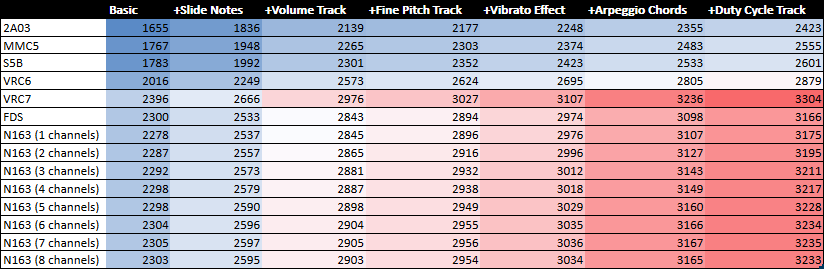
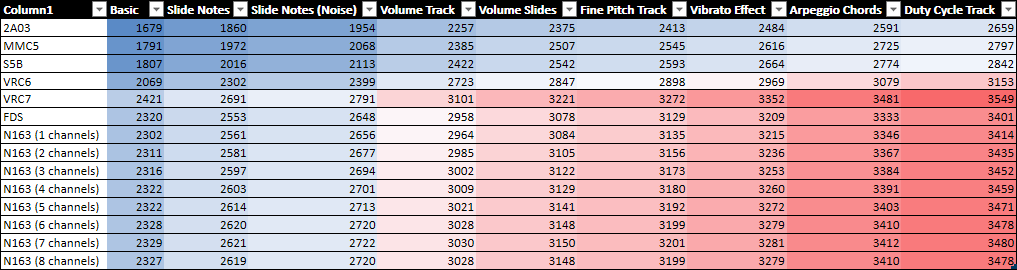
Update doc.

diff --git a/SoundEngine/Tools/FeatureMatrix.html b/SoundEngine/Tools/FeatureMatrix.html
@@ -1,34 +1,34 @@
 <html><body>
 <h1>CODE</h1>
-<table><th><td>Basic</td><td>Slide Notes</td><td>Volume Track</td><td>Fine Pitch Track</td><td>Vibrato Effect</td><td>Arpeggio Chords</td><td>Duty Cycle Track</td></th>
-<tr><td>2A03</td><td>1655</td><td>1836</td><td>2139</td><td>2177</td><td>2248</td><td>2355</td><td>2423</td></tr>
-<tr><td>MMC5</td><td>1767</td><td>1948</td><td>2265</td><td>2303</td><td>2374</td><td>2483</td><td>2555</td></tr>
-<tr><td>S5B</td><td>1783</td><td>1992</td><td>2301</td><td>2352</td><td>2423</td><td>2533</td><td>2601</td></tr>
-<tr><td>VRC6</td><td>2016</td><td>2249</td><td>2573</td><td>2624</td><td>2695</td><td>2805</td><td>2879</td></tr>
-<tr><td>VRC7</td><td>2396</td><td>2666</td><td>2976</td><td>3027</td><td>3107</td><td>3236</td><td>3304</td></tr>
-<tr><td>FDS</td><td>2300</td><td>2533</td><td>2843</td><td>2894</td><td>2974</td><td>3098</td><td>3166</td></tr>
-<tr><td>N163 (1 channels)</td><td>2278</td><td>2537</td><td>2845</td><td>2896</td><td>2976</td><td>3107</td><td>3175</td></tr>
-<tr><td>N163 (2 channels)</td><td>2287</td><td>2557</td><td>2865</td><td>2916</td><td>2996</td><td>3127</td><td>3195</td></tr>
-<tr><td>N163 (3 channels)</td><td>2292</td><td>2573</td><td>2881</td><td>2932</td><td>3012</td><td>3143</td><td>3211</td></tr>
-<tr><td>N163 (4 channels)</td><td>2298</td><td>2579</td><td>2887</td><td>2938</td><td>3018</td><td>3149</td><td>3217</td></tr>
-<tr><td>N163 (5 channels)</td><td>2298</td><td>2590</td><td>2898</td><td>2949</td><td>3029</td><td>3160</td><td>3228</td></tr>
-<tr><td>N163 (6 channels)</td><td>2304</td><td>2596</td><td>2904</td><td>2955</td><td>3035</td><td>3166</td><td>3234</td></tr>
-<tr><td>N163 (7 channels)</td><td>2305</td><td>2597</td><td>2905</td><td>2956</td><td>3036</td><td>3167</td><td>3235</td></tr>
-<tr><td>N163 (8 channels)</td><td>2303</td><td>2595</td><td>2903</td><td>2954</td><td>3034</td><td>3165</td><td>3233</td></tr>
+<table><th><td>Basic</td><td>Slide Notes</td><td>Slide Notes (Noise)</td><td>Volume Track</td><td>Volume Slides</td><td>Fine Pitch Track</td><td>Vibrato Effect</td><td>Arpeggio Chords</td><td>Duty Cycle Track</td></th>
+<tr><td>2A03</td><td>1679</td><td>1860</td><td>1954</td><td>2257</td><td>2375</td><td>2413</td><td>2484</td><td>2591</td><td>2659</td></tr>
+<tr><td>MMC5</td><td>1791</td><td>1972</td><td>2068</td><td>2385</td><td>2507</td><td>2545</td><td>2616</td><td>2725</td><td>2797</td></tr>
+<tr><td>S5B</td><td>1807</td><td>2016</td><td>2113</td><td>2422</td><td>2542</td><td>2593</td><td>2664</td><td>2774</td><td>2842</td></tr>
+<tr><td>VRC6</td><td>2069</td><td>2302</td><td>2399</td><td>2723</td><td>2847</td><td>2898</td><td>2969</td><td>3079</td><td>3153</td></tr>
+<tr><td>VRC7</td><td>2421</td><td>2691</td><td>2791</td><td>3101</td><td>3221</td><td>3272</td><td>3352</td><td>3481</td><td>3549</td></tr>
+<tr><td>FDS</td><td>2320</td><td>2553</td><td>2648</td><td>2958</td><td>3078</td><td>3129</td><td>3209</td><td>3333</td><td>3401</td></tr>
+<tr><td>N163 (1 channels)</td><td>2302</td><td>2561</td><td>2656</td><td>2964</td><td>3084</td><td>3135</td><td>3215</td><td>3346</td><td>3414</td></tr>
+<tr><td>N163 (2 channels)</td><td>2311</td><td>2581</td><td>2677</td><td>2985</td><td>3105</td><td>3156</td><td>3236</td><td>3367</td><td>3435</td></tr>
+<tr><td>N163 (3 channels)</td><td>2316</td><td>2597</td><td>2694</td><td>3002</td><td>3122</td><td>3173</td><td>3253</td><td>3384</td><td>3452</td></tr>
+<tr><td>N163 (4 channels)</td><td>2322</td><td>2603</td><td>2701</td><td>3009</td><td>3129</td><td>3180</td><td>3260</td><td>3391</td><td>3459</td></tr>
+<tr><td>N163 (5 channels)</td><td>2322</td><td>2614</td><td>2713</td><td>3021</td><td>3141</td><td>3192</td><td>3272</td><td>3403</td><td>3471</td></tr>
+<tr><td>N163 (6 channels)</td><td>2328</td><td>2620</td><td>2720</td><td>3028</td><td>3148</td><td>3199</td><td>3279</td><td>3410</td><td>3478</td></tr>
+<tr><td>N163 (7 channels)</td><td>2329</td><td>2621</td><td>2722</td><td>3030</td><td>3150</td><td>3201</td><td>3281</td><td>3412</td><td>3480</td></tr>
+<tr><td>N163 (8 channels)</td><td>2327</td><td>2619</td><td>2720</td><td>3028</td><td>3148</td><td>3199</td><td>3279</td><td>3410</td><td>3478</td></tr>
 </table><h1>RAM</h1><table>
-<table><th><td>Basic</td><td>Slide Notes</td><td>Volume Track</td><td>Fine Pitch Track</td><td>Vibrato Effect</td><td>Arpeggio Chords</td><td>Duty Cycle Track</td></th>
-<tr><td>2A03</td><td>129</td><td>138</td><td>143</td><td>146</td><td>151</td><td>151</td><td>154</td></tr>
-<tr><td>MMC5</td><td>189</td><td>204</td><td>211</td><td>216</td><td>223</td><td>223</td><td>228</td></tr>
-<tr><td>S5B</td><td>201</td><td>219</td><td>227</td><td>233</td><td>241</td><td>241</td><td>244</td></tr>
-<tr><td>VRC6</td><td>216</td><td>234</td><td>242</td><td>248</td><td>256</td><td>256</td><td>262</td></tr>
-<tr><td>VRC7</td><td>300</td><td>327</td><td>338</td><td>347</td><td>358</td><td>358</td><td>361</td></tr>
-<tr><td>FDS</td><td>161</td><td>173</td><td>179</td><td>183</td><td>189</td><td>189</td><td>192</td></tr>
-<tr><td>N163 (1 channels)</td><td>157</td><td>169</td><td>175</td><td>179</td><td>185</td><td>185</td><td>188</td></tr>
-<tr><td>N163 (2 channels)</td><td>183</td><td>198</td><td>205</td><td>210</td><td>217</td><td>217</td><td>220</td></tr>
-<tr><td>N163 (3 channels)</td><td>209</td><td>227</td><td>235</td><td>241</td><td>249</td><td>249</td><td>252</td></tr>
-<tr><td>N163 (4 channels)</td><td>235</td><td>256</td><td>265</td><td>272</td><td>281</td><td>281</td><td>284</td></tr>
-<tr><td>N163 (5 channels)</td><td>261</td><td>285</td><td>295</td><td>303</td><td>313</td><td>313</td><td>316</td></tr>
-<tr><td>N163 (6 channels)</td><td>287</td><td>314</td><td>325</td><td>334</td><td>345</td><td>345</td><td>348</td></tr>
-<tr><td>N163 (7 channels)</td><td>313</td><td>343</td><td>355</td><td>365</td><td>377</td><td>377</td><td>380</td></tr>
-<tr><td>N163 (8 channels)</td><td>339</td><td>372</td><td>385</td><td>396</td><td>409</td><td>409</td><td>412</td></tr>
+<table><th><td>Basic</td><td>Slide Notes</td><td>Slide Notes (Noise)</td><td>Volume Track</td><td>Volume Slides</td><td>Fine Pitch Track</td><td>Vibrato Effect</td><td>Arpeggio Chords</td><td>Duty Cycle Track</td></th>
+<tr><td>2A03</td><td>129</td><td>138</td><td>141</td><td>146</td><td>154</td><td>157</td><td>162</td><td>162</td><td>165</td></tr>
+<tr><td>MMC5</td><td>189</td><td>204</td><td>207</td><td>214</td><td>228</td><td>233</td><td>240</td><td>240</td><td>245</td></tr>
+<tr><td>S5B</td><td>201</td><td>219</td><td>222</td><td>230</td><td>246</td><td>252</td><td>260</td><td>260</td><td>263</td></tr>
+<tr><td>VRC6</td><td>217</td><td>235</td><td>238</td><td>246</td><td>262</td><td>268</td><td>276</td><td>276</td><td>282</td></tr>
+<tr><td>VRC7</td><td>300</td><td>327</td><td>330</td><td>341</td><td>363</td><td>372</td><td>383</td><td>383</td><td>386</td></tr>
+<tr><td>FDS</td><td>161</td><td>173</td><td>176</td><td>182</td><td>194</td><td>198</td><td>204</td><td>204</td><td>207</td></tr>
+<tr><td>N163 (1 channels)</td><td>157</td><td>169</td><td>172</td><td>178</td><td>190</td><td>194</td><td>200</td><td>200</td><td>203</td></tr>
+<tr><td>N163 (2 channels)</td><td>183</td><td>198</td><td>201</td><td>208</td><td>222</td><td>227</td><td>234</td><td>234</td><td>237</td></tr>
+<tr><td>N163 (3 channels)</td><td>209</td><td>227</td><td>230</td><td>238</td><td>254</td><td>260</td><td>268</td><td>268</td><td>271</td></tr>
+<tr><td>N163 (4 channels)</td><td>235</td><td>256</td><td>259</td><td>268</td><td>286</td><td>293</td><td>302</td><td>302</td><td>305</td></tr>
+<tr><td>N163 (5 channels)</td><td>261</td><td>285</td><td>288</td><td>298</td><td>318</td><td>326</td><td>336</td><td>336</td><td>339</td></tr>
+<tr><td>N163 (6 channels)</td><td>287</td><td>314</td><td>317</td><td>328</td><td>350</td><td>359</td><td>370</td><td>370</td><td>373</td></tr>
+<tr><td>N163 (7 channels)</td><td>313</td><td>343</td><td>346</td><td>358</td><td>382</td><td>392</td><td>404</td><td>404</td><td>407</td></tr>
+<tr><td>N163 (8 channels)</td><td>339</td><td>372</td><td>375</td><td>388</td><td>414</td><td>425</td><td>438</td><td>438</td><td>441</td></tr>
 </body></html>

diff --git a/SoundEngine/Tools/BuildFeatureMatrix.cs b/SoundEngine/Tools/BuildFeatureMatrix.cs
@@ -98,7 +98,9 @@ namespace PrintCodeSize
                 "",
                 //"FAMISTUDIO_USE_FAMITRACKER_TEMPO=1",
                 "FAMISTUDIO_USE_SLIDE_NOTES=1",
+                "FAMISTUDIO_USE_NOISE_SLIDE_NOTES=1",
                 "FAMISTUDIO_USE_VOLUME_TRACK=1",
+                "FAMISTUDIO_USE_VOLUME_SLIDES=1",
                 "FAMISTUDIO_USE_PITCH_TRACK=1",
                 "FAMISTUDIO_USE_VIBRATO=1",
                 "FAMISTUDIO_USE_ARPEGGIO=1",
@@ -109,7 +111,9 @@ namespace PrintCodeSize
             {
                 "Basic",
                 "Slide Notes",
+                "Slide Notes (Noise)",
                 "Volume Track",
+                "Volume Slides",
                 "Fine Pitch Track",
                 "Vibrato Effect",
                 "Arpeggio Chords",

diff --git a/Docs/docs/soundengine.md b/Docs/docs/soundengine.md
@@ -39,8 +39,10 @@ Features that can be toggled on/off depending on the needs of your projects:
 * Blaarg Smooth Vibrato technique to eliminate "pops" on square channels
 * FamiTracker/FamiStudio tempo mode.
 * Volume track support.
+* Volume slides
 * Fine pitch track support.
 * Slide notes.
+* Slide notes (noise channel).
 * Vibrato effect.
 * Arpeggios (not to be confused with arpeggio instrument envelopes which are always enabled).
 * Duty cycle effect track
@@ -235,28 +237,36 @@ Every feature supported in FamiStudio is supported by this sound engine. If you 
     ; Must be enabled if any song uses the volume track. The volume track allows manipulating the volume at the track
     ; level independently from instruments.
     ; More information at: https://famistudio.org/doc/pianoroll/#editing-volume-tracks-effects
-    FAMISTUDIO_USE_VOLUME_TRACK   = 1
+    FAMISTUDIO_USE_VOLUME_TRACK      = 1
+    
+    ; Must be enabled if any song uses slides on the volume track. Volume track must be enabled too.
+    ; More information at: https://famistudio.org/doc/pianoroll/#editing-volume-tracks-effects
+    FAMISTUDIO_USE_VOLUME_SLIDES     = 1
     
     ; Must be enabled if any song uses the pitch track. The pitch track allows manipulating the pitch at the track
     ; level independently from instruments.
     ; More information at: https://famistudio.org/doc/pianoroll/#pitch
-    FAMISTUDIO_USE_PITCH_TRACK    = 1
+    FAMISTUDIO_USE_PITCH_TRACK       = 1
     
     ; Must be enabled if any song uses slide notes. Slide notes allows portamento and slide effects.
     ; More information at: https://famistudio.org/doc/pianoroll/#slide-notes
-    FAMISTUDIO_USE_SLIDE_NOTES    = 1
+    FAMISTUDIO_USE_SLIDE_NOTES       = 1
+
+    ; Must be enabled if any song uses slide notes on the noise channel too. 
+    ; More information at: https://famistudio.org/doc/pianoroll/#slide-notes
+    FAMISTUDIO_USE_NOISE_SLIDE_NOTES = 1
     
     ; Must be enabled if any song uses the vibrato speed/depth effect track. 
     ; More information at: https://famistudio.org/doc/pianoroll/#vibrato-depth-speed
-    FAMISTUDIO_USE_VIBRATO        = 1
+    FAMISTUDIO_USE_VIBRATO           = 1
     
     ; Must be enabled if any song uses arpeggios (not to be confused with instrument arpeggio envelopes, those 
     ; are always supported).
     ; More information at: (TODO)
-    FAMISTUDIO_USE_ARPEGGIO       = 1
+    FAMISTUDIO_USE_ARPEGGIO          = 1
     
     ; Must be enabled if any song uses the "Duty Cycle" effect (equivalent of FamiTracker Vxx, also called "Timbre").  
-    FAMISTUDIO_USE_DUTYCYCLE_EFFECT = 1
+    FAMISTUDIO_USE_DUTYCYCLE_EFFECT  = 1
 
 ## Exporting Music/SFX to the engine
 

diff --git a/Docs/docs/pianoroll.md b/Docs/docs/pianoroll.md
@@ -151,6 +151,12 @@ You can change which arpeggio is associated with a note the same way to can repl
 
 If an instrument uses an arpeggio envelope and also uses an arpeggio chord, the chord will take over and completely override the arpeggio envelope of the instrument. 
 
+## Replacing Instruments
+
+To replace the instrument used by a note, you can simply drag the instrument on the note. To replace multiple notes at a time, simply create a selection and drag the instrument on the selection.
+
+![](images/ReplaceInstrument.gif#center)
+
 ## Copying & pasting notes
 
 Much like the sequencer, selcted notes can be copy (or cut) by pressing CTRL+C (or CTRL+X). You can then move the selection somewhere else and paste the notes with CTRL+V.
@@ -213,6 +219,10 @@ For effects that have huge values (such as FDS Depth), you can hold Shift to fin
 ### Volume track
 
 The volume tracks dictates how loud the current channel should play. This volume is combined with volume envelope by multiplication (50% volume track x 50% envelope volume = 25% total volume). It is much more efficient to use volume envelopes wherever possible and only use volume tracks to control the global volume of the song.
+
+The volume track is allowed to have slides to smoothly raise or lower the volume. They are created exactly like regular slide notes, by holding "S", clicking and dragging up or down. These slides use fixed point arithmetic and have limited precision. They will go up/down by 1 volume unit every 16 frames at most. Very slow/long slides may end earlier than their visual representation.
+
+![](images/VolumeSlide.gif#center)
 
 ### Vibrato depth & speed
 

diff --git a/Docs/docs/sequencer.md b/Docs/docs/sequencer.md
@@ -40,13 +40,15 @@ Clicking a pattern selects it and opens the piano roll for the current channel a
 
 ![](images/EditPattern.png#center)
 
+## Selecting patterns
+
 You can select multiple patterns by right-cliking and dragging in the header bar of the Sequencer or in an empty space in the sequencer. To un-select everything, simply press Esc. When multiple patterns are selected, only the color can be edited.
 
-![](images/PatternSelection2.png#center)
+![](images/SelectPatternsColumn.gif#center)
 
-You can select multiple patterns in a rectangular grid, first select a pattern and shift-clicking to a second pattern.
+You can select multiple patterns in a rectangular grid by holding SHIFT and right clicking to create a selection.
 
-![](images/SquareSelection.png#center)
+![](images/SelectPatternsRect.gif#center)
 
 ## Moving & copying patterns
 

diff --git a/Docs/docs/changelog.md b/Docs/docs/changelog.md
@@ -29,7 +29,7 @@ Breaking/behavior changes:
 * Pattern numbers in the sequencer and piano roll now start at 1 instead of 0. This is a purely esthetic change and does not impact anything.
 
 <div style="position:relative;margin-left: auto;margin-right: auto;width:80%;height:0;padding-bottom:45%;">
-	<iframe style="position:absolute;top:0;left:0;width:100%;height:100%" src="https://www.youtube.com/embed/XEDQYOcedNk" frameborder="0" allow="accelerometer; autoplay; encrypted-media; gyroscope; picture-in-picture" allowfullscreen></iframe>
+	<iframe style="position:absolute;top:0;left:0;width:100%;height:100%" src="https://www.youtube.com/embed/GSYfj4MFGGE" frameborder="0" allow="accelerometer; autoplay; encrypted-media; gyroscope; picture-in-picture" allowfullscreen></iframe>
 </div>
 <br/>
 
